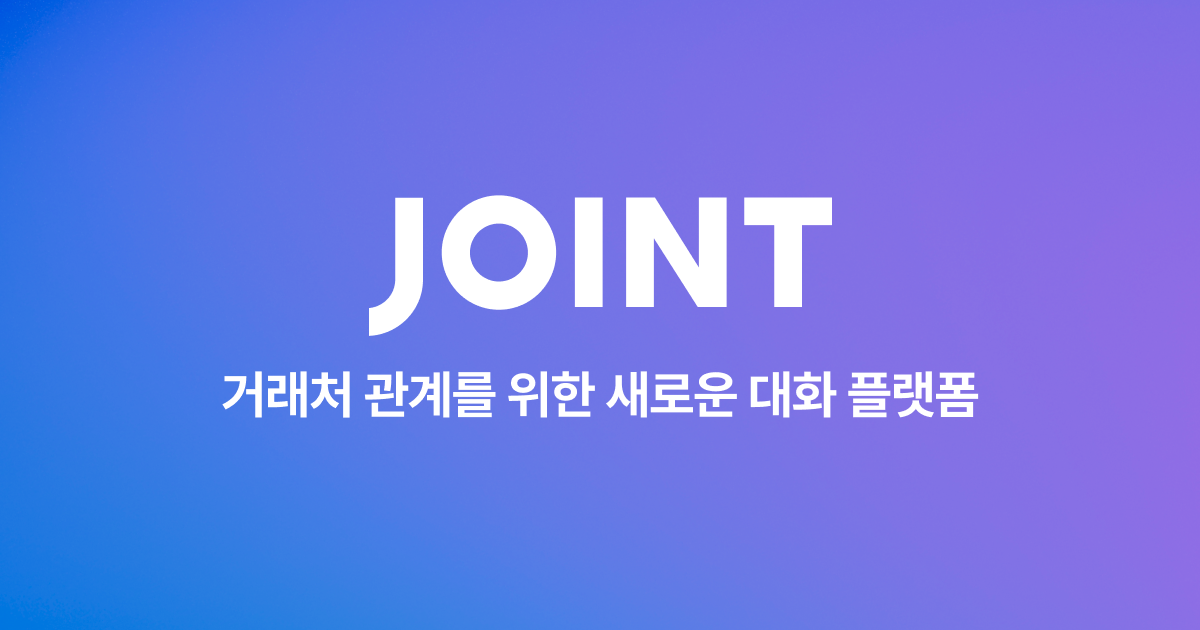
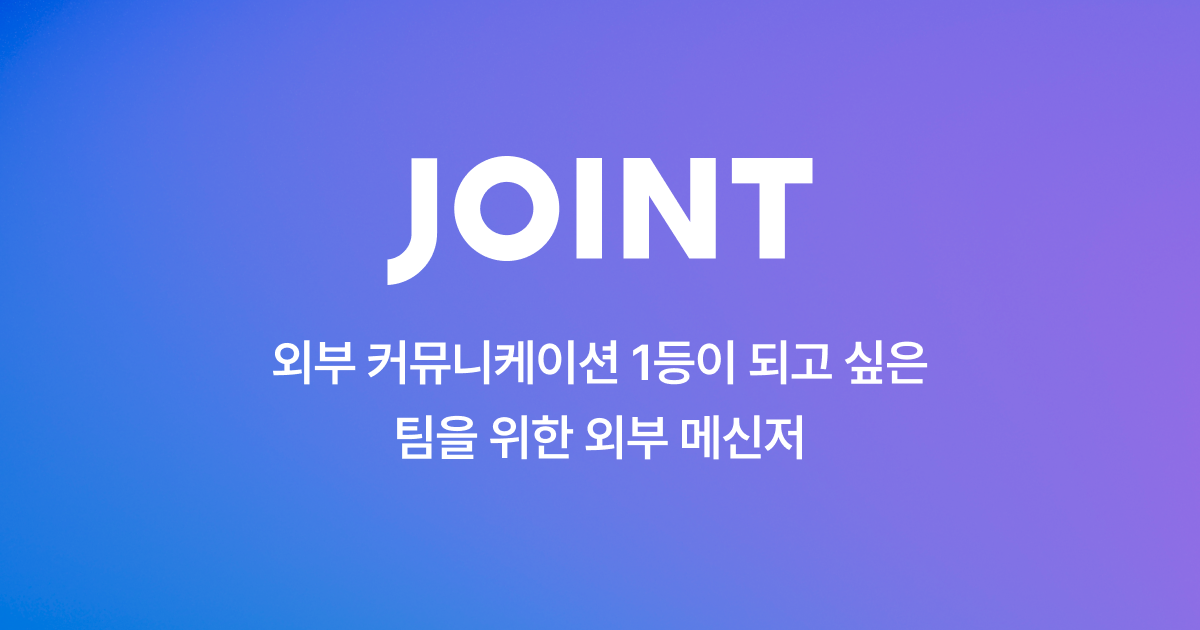
feat: update Open Graph 메타 태그 및 이미지 URL 수정

Changed region(s): [[0.185, 0.2413, 0.8325, 0.754]]

diff --git a/index.html b/index.html
@@ -4,14 +4,11 @@
     <meta charset="UTF-8" />
     <meta name="viewport" content="width=device-width, user-scalable=yes" />
 
-    <meta
-      property="og:title"
-      content="JOINT - 거래처 관계를 위한 새로운 대화 플랫폼(조인트)"
-    />
+    <meta property="og:title" content="JOINT - 외부 커뮤니케이션에 집중하는 메신저 조인트" />
     <meta property="og:site_name" content="조인트 (JOINT)" />
     <meta
       property="og:description"
-      content="여러 거래처와의 소통을 한 곳에서. JOINT(조인트)로 더 강한 관계를 만들어 보세요."
+      content="외부 커뮤니케이션 1등이 되고 싶은 팀을 위한 외부 메신저"
     />
     <meta
       property="og:image"
@@ -76,7 +73,7 @@
         "@context": "https://schema.org",
         "@type": "WebSite",
         "name": "조인트 (JOINT)",
-        "url": "https://www.joint.now/"
+        "url": "https://www.joint.now"
       }
     </script>
 
